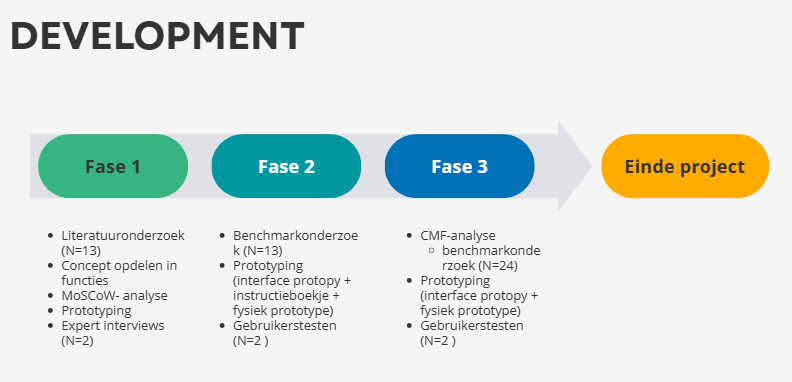
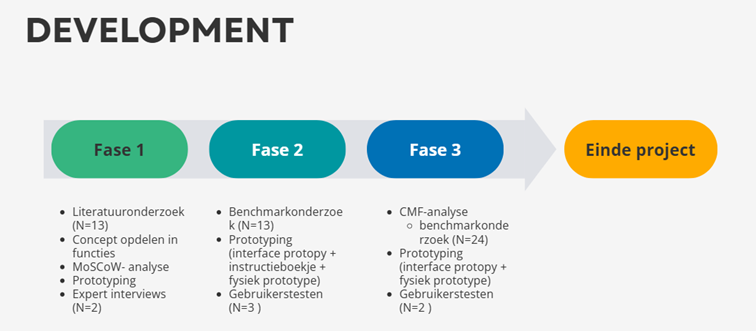
update figuren

diff --git a/docs/development.md b/docs/development.md
@@ -4,7 +4,7 @@
 
 ![alt text](<../img/development 3.png>)
 <p align="center">
-  <em>verloop development 2 </em>
+  <em>Verloop development</em>
 
 ### Development fase 1
 #### Doestellingen
@@ -47,26 +47,26 @@ Het herwerkt prototype ziet er als volgt uit:
 
 <p align="center">
   <img src="../img/eindrender Develop 1.png" width="400"><br>
-  <em> render prototype Development 1 </em>
+  <em> Render prototype Development 1 </em>
 </p>
 
 
 Hierbij werden volgende interfaces getoond op de tablet:
 
 <p align="center">
-  <img src="../img/interface 1.png" width="300">
+  <img src="../img/interface 1.png" width="400">
 
 <p align="center">
-  <img src="../img/interface 2.png" width="300">
+  <img src="../img/interface 2.png" width="400">
 
 <p align="center">
-  <img src="../img/interface 3.png" width="300">
+  <img src="../img/interface 3.png" width="400">
 
 <p align="center">
-  <img src="../img/interface 4.png" width="300">
+  <img src="../img/interface 4.png" width="400">
 <p align="center">
-  <img src="../img/interface 5.png" width="300"><br>
-  <em>afbeeldingen interfaces Develop 1 </em>
+  <img src="../img/interface 5.png" width="400"><br>
+  <em>Afbeeldingen interfaces Develop 1 </em>
 </p>
 
 
@@ -128,7 +128,7 @@ In onderstaande figuur worden de aanpassingen aan het concept weergegeven op de 
 
 <p align="center">
   <img src="../img/overzicht veranderingen Develop 1.png" width="600"><br>
-  <em>overzicht veranderingen Develop 1 </em>
+  <em>Overzicht veranderingen Develop 1 </em>
 </p>
 
 Deze implicaties werden verwerkt in de [design requirements](design_requirements.md) .
@@ -139,20 +139,20 @@ Verder werd het concept tijdens deze fase ontleed in diens functies om zo te bek
 
 <p align="center">
   <img src="../img/opdeling functies tool..png" width="600"><br>
-  <em>opdeling functies </em>
+  <em>Opdeling functies </em>
 </p>
 
 Voor dezelfde reden werden een costumer journey en task hierarchy opgesteld:
 
 <p align="center">
   <img src="../img/costumer journey.png" width="600"><br>
-  <em>costumer journey </em>
+  <em>Costumer journey </em>
 </p>
 
 
 <p align="center">
   <img src="../img/taak-hiërarchie.png" width="600"><br>
-  <em>taken-hiërarchie </em>
+  <em>Taken-hiërarchie </em>
 </p>
 
 Ook werden de design requirements gerangschikt volgens belang aan de hand van een MOSCOW-analyse. Zo worden de belangrijke aspecten die eventueel verder uitgewerkt dienen te worden zichtbaar alsook degene die tijdelijk achterwege gelaten kunnen worden. Deze MOSCOW-analyse werd verricht door beide onderzoekers afzonderlijk en daarna samen besproken. De aspecten die essentieel bleken uit de onderzoeken worden in de MUST-kolom geplaatst, de overige in could of should afhankelijk van hoeveel waarde de gebruikers hieraan hechtten.
@@ -170,7 +170,7 @@ Ook werd een analyse uitgevoerd hoe het volgend prototype opgebouwd zou kunnen w
 
 <p align="center">
   <img src="../img/Deconstructie mogelijk prototype.jpg" width="600"><br>
-  <em>deconstructie mogelijk prototype </em>
+  <em>Deconstructie mogelijk prototype </em>
 </p>
 
 
@@ -196,7 +196,7 @@ De garagepoort wordt gemaakt door een papier naar boven en beneden te schuiven.
 
 <p align="center">
   <img src="../img/prototype high level.jpeg" width="400"><br>
-  <em>prototype 'high level' development 2 </em>
+  <em>Prototype 'high level' Development 2 </em>
 </p>
 
 
@@ -205,17 +205,17 @@ De interface werd handmatig op protopy gemaakt. Deze is ontworpen voor 2 cycli a
 
 
 <p align="center">
-  <img src="../img/Interface 1 protopie.png" width="300">
+  <img src="../img/Interface 1 protopie.png" width="400">
 
 <p align="center">
-  <img src="../img/Interface 2 Protopie.png" width="300">
+  <img src="../img/Interface 2 Protopie.png" width="400">
 
 <p align="center">
-  <img src="../img/Interface 3 protopie.png" width="300">
+  <img src="../img/Interface 3 protopie.png" width="400">
 
 <p align="center">
-  <img src="../img/Interface 4 protopie.png" width="300"><br>
-  <em> interfaces development 2 </em>
+  <img src="../img/Interface 4 protopie.png" width="400"><br>
+  <em> Interfaces Development 2 </em>
 </p>
 
 [Link naar interface protopie](https://cloud.protopie.io/p/b93e0e5fd02e8d751e5a8298)
@@ -238,8 +238,8 @@ Hiervoor werd de tactiek 'design for the tall' toegepast. Dit omdat als de groot
 
 
 <p align="center">
-  <img src="../img/tabel antropometrische data volwassenen.png" width="300"><br>
-  <em> tabel antropometrische data volwassenen </em>
+  <img src="../img/tabel antropometrische data volwassenen.png" width="400"><br>
+  <em> Tabel antropometrische data volwassenen </em>
 </p>
 
 ###### Afstandsbediening kinderen (N=2)
@@ -249,7 +249,7 @@ Er werd uitgekomen op volgende tabel:
 
 <p align="center">
   <img src="../img/tabel antropometrische data kinderen.png" width="600"><br>
-  <em>afmetingen afstandsbedieningen Develop 2 </em>
+  <em>Afmetingen afstandsbedieningen Develop 2 </em>
 </p>
 
 #### Gebruikerstesten (N=3)
@@ -276,14 +276,14 @@ Opvallend is dat beide kinderen niet spontaan ontdekten dat de figuren versleept
 De self-assessment mannequins verliepen minder vlot. Hier was aanzienlijke begeleiding nodig en de kinderen kozen voornamelijk extreme antwoorden. Dit wijst op een te hoge cognitieve belasting en/of te veel keuzemogelijkheden.
 
 <p align="center">
-  <img src="../img/Afbeelding1.png" width="300"><br>
-  <em> foto gebruikerstesten invulling self-assessment mannequins </em>
+  <img src="../img/Afbeelding1.png" width="400"><br>
+  <em> Foto gebruikerstesten invulling Self-assessment Mannequins </em>
 </p>
 
 De ergonomische test toont aan dat een middelgroot formaat van de afstandsbediening het meest geschikt is voor kinderen.
 <p align="center">
-  <img src="../img/ergonomische test kinderen.png" width="300"><br>
-  <em> ergonomische test kinderen </em>
+  <img src="../img/ergonomische test kinderen.png" width="400"><br>
+  <em> Ergonomische test kinderen </em>
 </p>
 De ergonomische afmetingen voor het handvat zijn aanvaardbaar.
 
@@ -326,8 +326,8 @@ De uitgebreidere werkwijze is terug te vinden in het [protocol.](<../reports and
 Met de implicaties en stijlen die geïdentificeerd werden in vorig benchmarkonderzoek worden nu 4 renders gemaakt die elk aan 1 van de stijlen voldoen en aan de algemene tendensen in CMF-strategieën. Van deze renders worden cut-outs gemaakt die verder worden gebruikt in de gebruikerstesten.
 
 <p align="center">
-  <img src="../img/cut-outs stijlen.jpg" width="300"><br>
-  <em> cut-outs CMF-stijlen </em>
+  <img src="../img/cut-outs stijlen.jpg" width="400"><br>
+  <em> Cut-outs CMF-stijlen </em>
 </p>
 
 Een gehele werkwijze van hoe deze renders worden opgebouwd is [hier](<../reports and protocols/Vizcom_werkwijze_develop 3.pdf>) terug te vinden.
@@ -351,26 +351,26 @@ Om bovenstaande storytelling realistisch te maken en vragen te toetsen diende er
 Aan de interface worden 3 zaken toegevoegd:
 - een startscherm om de variabelen van het kind in te stellen voor het eerste gebruik.
 <p align="center">
-  <img src="../img/instellen parameters.png" width="300"><br>
-  <em> interface instellen variabelen </em>
+  <img src="../img/instellen parameters.png" width="400"><br>
+  <em> Interface instellen variabelen </em>
 </p>
 
 - een extra knop bedoelt alleen voor de ouders, waar men via een wiskunde som aan kan, dit om: de eindfase in te gaan, de tool sneller/trager te laten gaan en een eenmalige duur in te stellen.
 
 <p align="center">
-  <img src="../img/wiskundesom.png" width="300"><br>
-  <em> wiskundesom interface </em>
+  <img src="../img/wiskundesom.png" width="400"><br>
+  <em> Wiskundesom interface </em>
 </p>
 <p align="center">
-  <img src="../img/instellingen.png" width="300"><br>
-  <em> instellingen achter icoon interface </em>
+  <img src="../img/instellingen.png" width="400"><br>
+  <em> Instellingen voor de ouders interface </em>
 </p>
 
 - Ook wordt een micro-interactie toegevoegd: een hand die bij de eerste cyclus de beloning sleept, dit omdat uit de vorige fase bleek dat deze interactie niet duidelijk was voor de kinderen. In de test zal nu duidelijk worden of deze interactie dit probleem verhelpt.
 
 <p align="center">
-  <img src="../img/microinteractie hand.png" width="300"><br>
-  <em> micro-interactie hand interface </em>
+  <img src="../img/microinteractie hand.png" width="400"><br>
+  <em> Micro-interactie hand </em>
 </p>
 
 
@@ -378,8 +378,8 @@ Aan de interface worden 3 zaken toegevoegd:
 Aan de tool zelf wordt 1 aanpassing gedaan. Er wordt aan de achterkant een ruimte voorzien voor het boek. 
 
 <p align="center">
-  <img src="../img/extra ruimte tool.jpg" width="300"><br>
-  <em> extra ruimte voor boek </em>
+  <img src="../img/extra ruimte tool.jpg" width="400"><br>
+  <em> Extra ruimte voor boek </em>
 </p>
 
 
@@ -388,13 +388,13 @@ Aan de tool zelf wordt 1 aanpassing gedaan. Er wordt aan de achterkant een ruimt
 Om ook het initialiseren van de tool bij de ouder te testen worden een productdoos en een handleiding van de tool gemaakt.
 
 <p align="center">
-  <img src="../img/handleiding too.png" width="300"><br>
-  <em> handleiding van de tool </em>
+  <img src="../img/handleiding too.png" width="400"><br>
+  <em> Handleiding van de tool </em>
 </p>
 
 <p align="center">
-  <img src="../img/doos tool.jpg" width="300"><br>
-  <em> doos van de tool </em>
+  <img src="../img/doos tool.jpg" width="400"><br>
+  <em> Doos van de tool </em>
 </p>
 
 #### Resultaten
@@ -418,6 +418,8 @@ De respondenten vinden het belangrijk dat de duur van de cycli aangepast kan wor
 De kinderen konden na de uitleg voorzien door het boek zelfstandig een volgende cyclus doorlopen en wilden graag vervolg cycli starten. 
 De respondenten gaven aan dat de kinderen na het afstaan van de tut nood hebben aan een alternatief troostobject, zoals een knuffel, dit dient dus voorzien te worden bij de tool. 
 De tool zou volgens haar zichtbaar in de leefkamer geplaatst worden aangezien dit een centrale plaats is in het huis. 
+
+Er werden niet genoeg CMF-testen uitgevoerd om een finale conclusie te kunnen maken.
 
 De volledige resultaten zijn terug te vinden in het [rapport](<../reports and protocols/Gebruiksonderzoek_rapport_develop 3.pdf>).
 

diff --git a/docs/definition.md b/docs/definition.md
@@ -3,7 +3,7 @@ De definition-fase bestaat uit drie onderzoek waves. Deze werden uitgevoerd tuss
 
 ![alt text](<../img/definition schema.png>)
 <p align="center">
-  <em>verloop defenition </em>
+  <em>Verloop defenition </em>
 
 ### WAVE1
 #### Doestellingen
@@ -23,27 +23,27 @@ Vijf concepten werden vergeleken via storyboards en realistische Vizcom-visualis
 Concept 1:
 ![alt text](../img/image-14.png)![alt text](../img/image-5.png)
 <p align="center">
-  <em>concept 1 definition WAVE 1</em>
+  <em>Concept 1 definition WAVE 1</em>
 
 Concept 2:
 ![alt text](<../img/storyboard slotje.png>)![alt text](../img/image-20.png)
 <p align="center">
-  <em>concept 2 definition WAVE 1</em>
+  <em>Concept 2 definition WAVE 1</em>
 
 Concept 3:
 ![alt text](../img/image-8.png)![alt text](../img/image-9.png)
 <p align="center">
-  <em>concept 3 definition WAVE 1</em>
+  <em>Concept 3 definition WAVE 1</em>
 
 Concept 4:
 ![alt text](../img/image-10.png)![alt text](../img/image-11.png)
 <p align="center">
-  <em>concept 4 definition WAVE 1</em>
+  <em>Concept 4 definition WAVE 1</em>
 
 Concept 5:
 ![alt text](../img/image-12.png)![alt text](../img/image-13.png)
 <p align="center">
-  <em>concept 5 definition WAVE 1</em>
+  <em>Concept 5 definition WAVE 1</em>
  
 In onderstaand protocol zijn de onderzoeksvragen terug te vinden en hoe dit proces plaatsvond. 
  - Ouders:
@@ -95,13 +95,13 @@ Concept 1:
 ![alt text](../img/image-18.png)
 ![alt text](../img/image-19.png)
 <p align="center">
-  <em>concept 1 definition WAVE 2</em>
+  <em>Concept 1 definition WAVE 2</em>
 
 Concept 2:
 ![alt text](../img/image-15.png)
 ![alt text](../img/image-16.png)
 <p align="center">
-  <em>concept 2 definition WAVE 2</em>
+  <em>Concept 2 definition WAVE 2</em>
 
 In onderstaand protocol zijn de onderzoeksvragen terug te vinden en hoe dit proces plaatsvond. 
 [Inerview protocol WAVE 2](<../reports and protocols/Interview - protocol - ouders -wave2.pdf>)

diff --git a/README.md b/README.md
@@ -85,7 +85,7 @@ Het vinden van literatuur in de development-fase 1 verliep zeer moeizaam. Dit kw
 
 In fase 2 verliep het vinden van respondenten zeer moeizaam aangezien de periode waarin de tests uitgevoerd moesten worden rond feestdagen viel. Hiernaast was het moeilijk om een crèche te vinden die gewillig was om de tests uit de voeren met de kinderen, wegens dat het scherm in de tool niet bij hun visie aansluit. 
 
-In fase 3 kon geen derde gebruikerstest uitgevoerd werden omdat een respondent op het laatste moment de afspraak niet meer kon laten doorgaan. 
+In fase 3 kon geen derde gebruikerstest uitgevoerd werden omdat een respondent op het laatste moment de afspraak niet meer kon laten doorgaan. Verder werden er niet voldoende testen uitgevoerd om een goede conclusie te kunne maken rond CMF.
 
 ### Algemeen
 

diff --git a/docs/discovery.md b/docs/discovery.md
@@ -5,7 +5,7 @@
 De algemene challenge is een slimme tool te ontwikkelen die de opvoedstress bij ouders verlicht. Hiervoor moet in eerste instantie het fenomeen van opvoedstress bestudeerd en de probleemruimtes die hierbij komen bepaald worden. Dit was het eerste deel van de discovery-fase. Op het einde van deze fase wordt dan een probleemruimte geselecteerd waarvan de ouders aangaven aanzienlijke stress te ervaren en waarrond een product kan  ontworpen worden die de stress bij ouders zal verlichten. Deze fase verliep in dit project zoals in onderstaande illustratie:
 ![alt text](discovery_overzicht.png)
 <p align="center">
-  <em>overzicht discovery</em>
+  <em>Verloop discovery</em>
 
 Als start werd een literatuuronderzoek verricht, dit om inzicht te verkrijgen in wat opvoedstress precies inhoudt en welke effecten dit heeft op het gezinsleven. Hiervoor werden 10 bronnen geraadpleegd. Dit onderzoek had als onderzoeksvragen:
 - Wat houdt opvoedstress in?